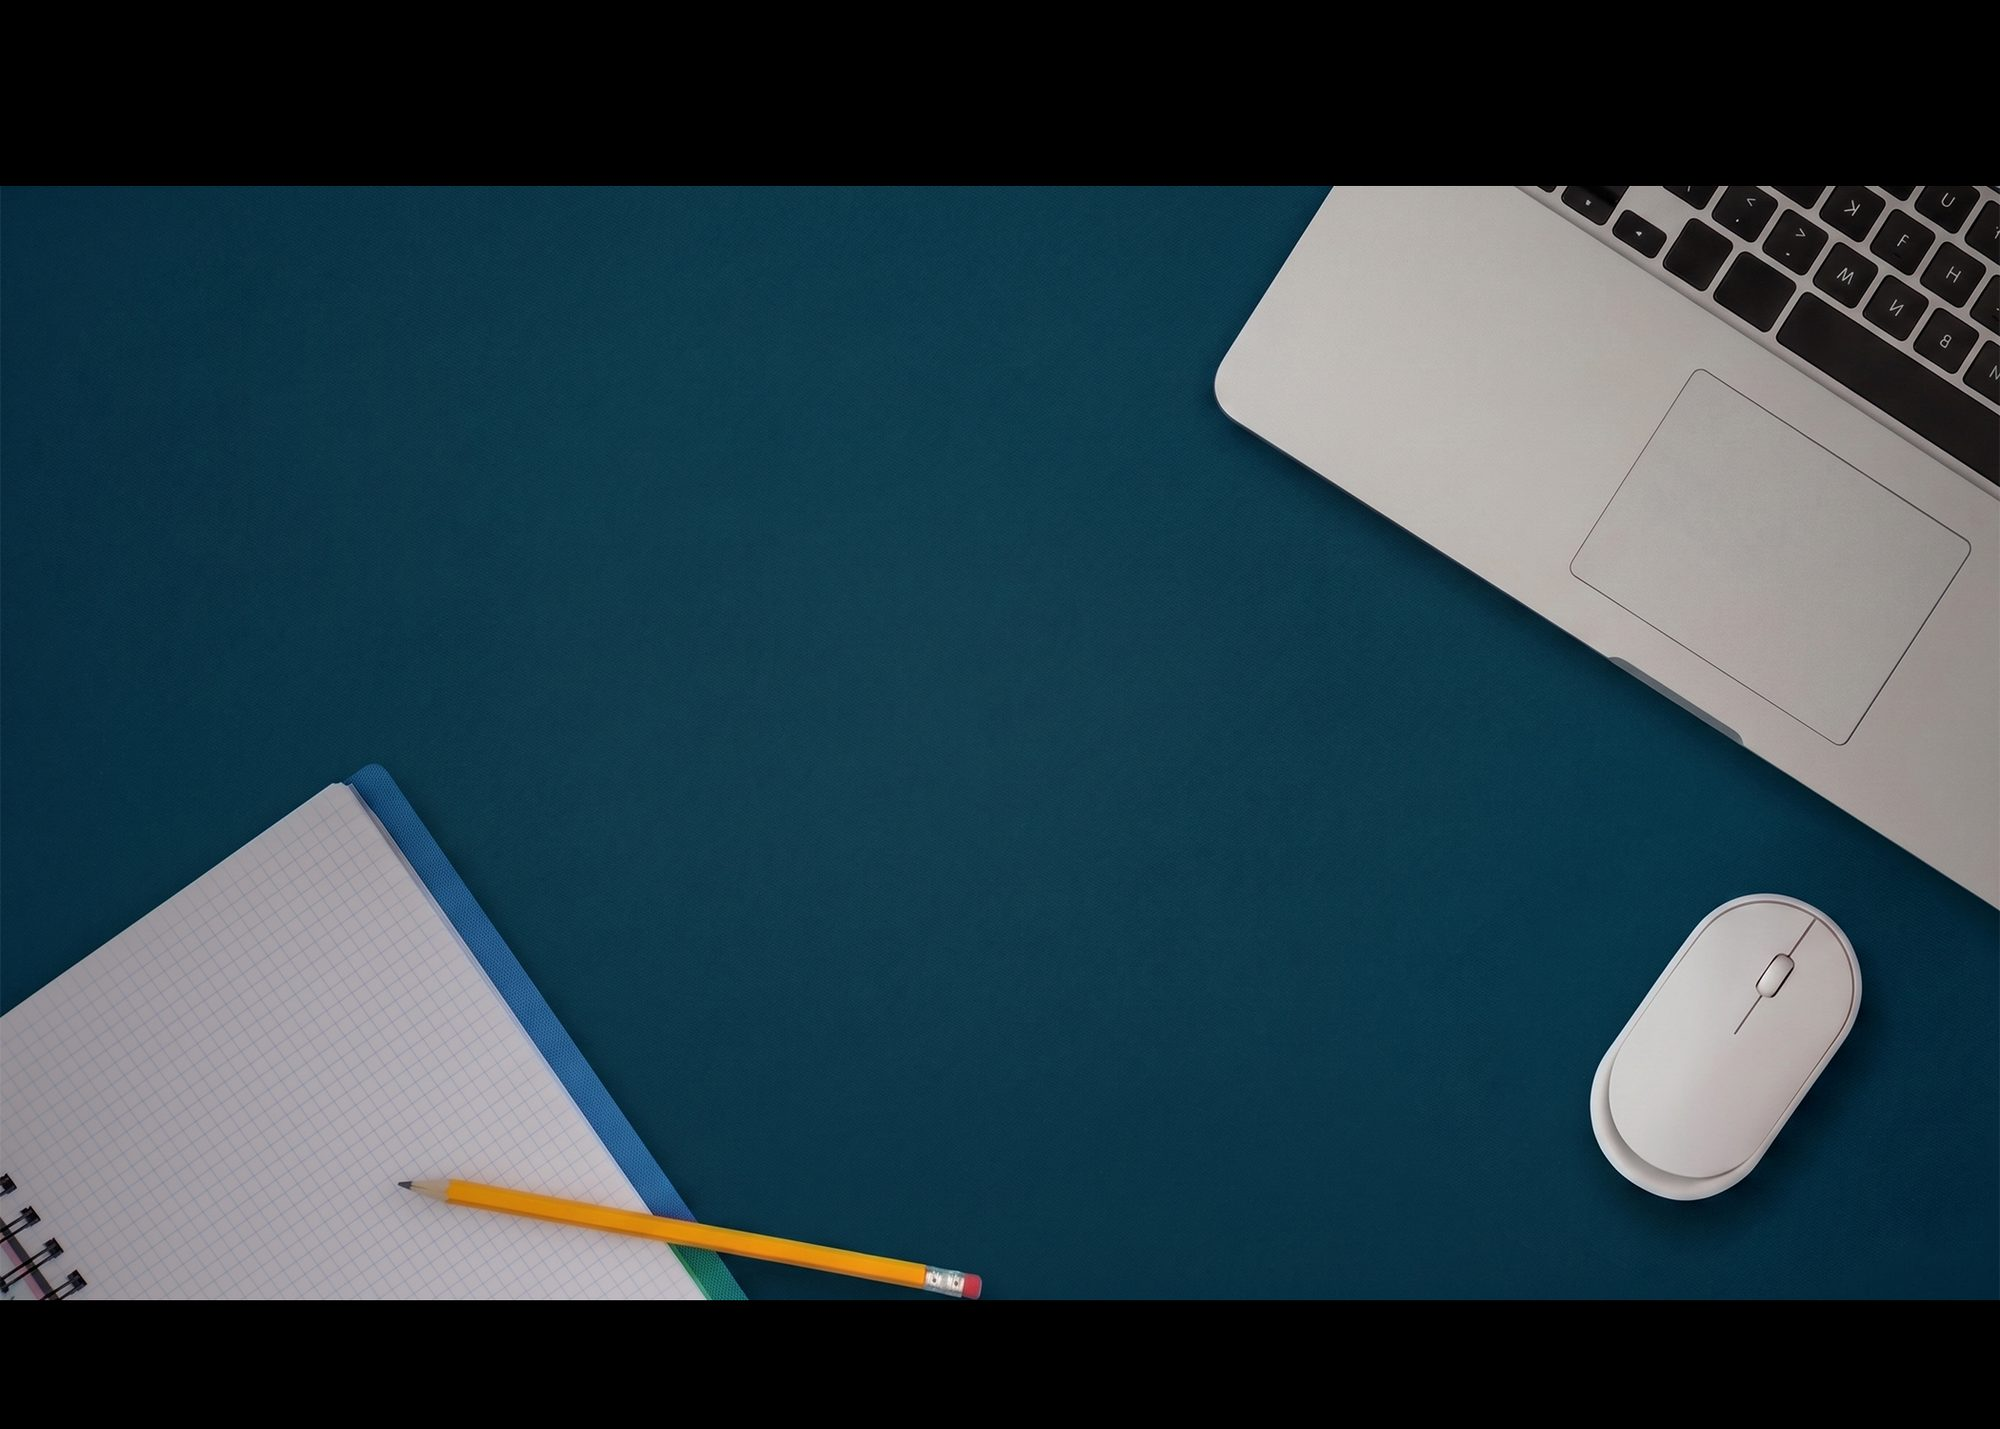
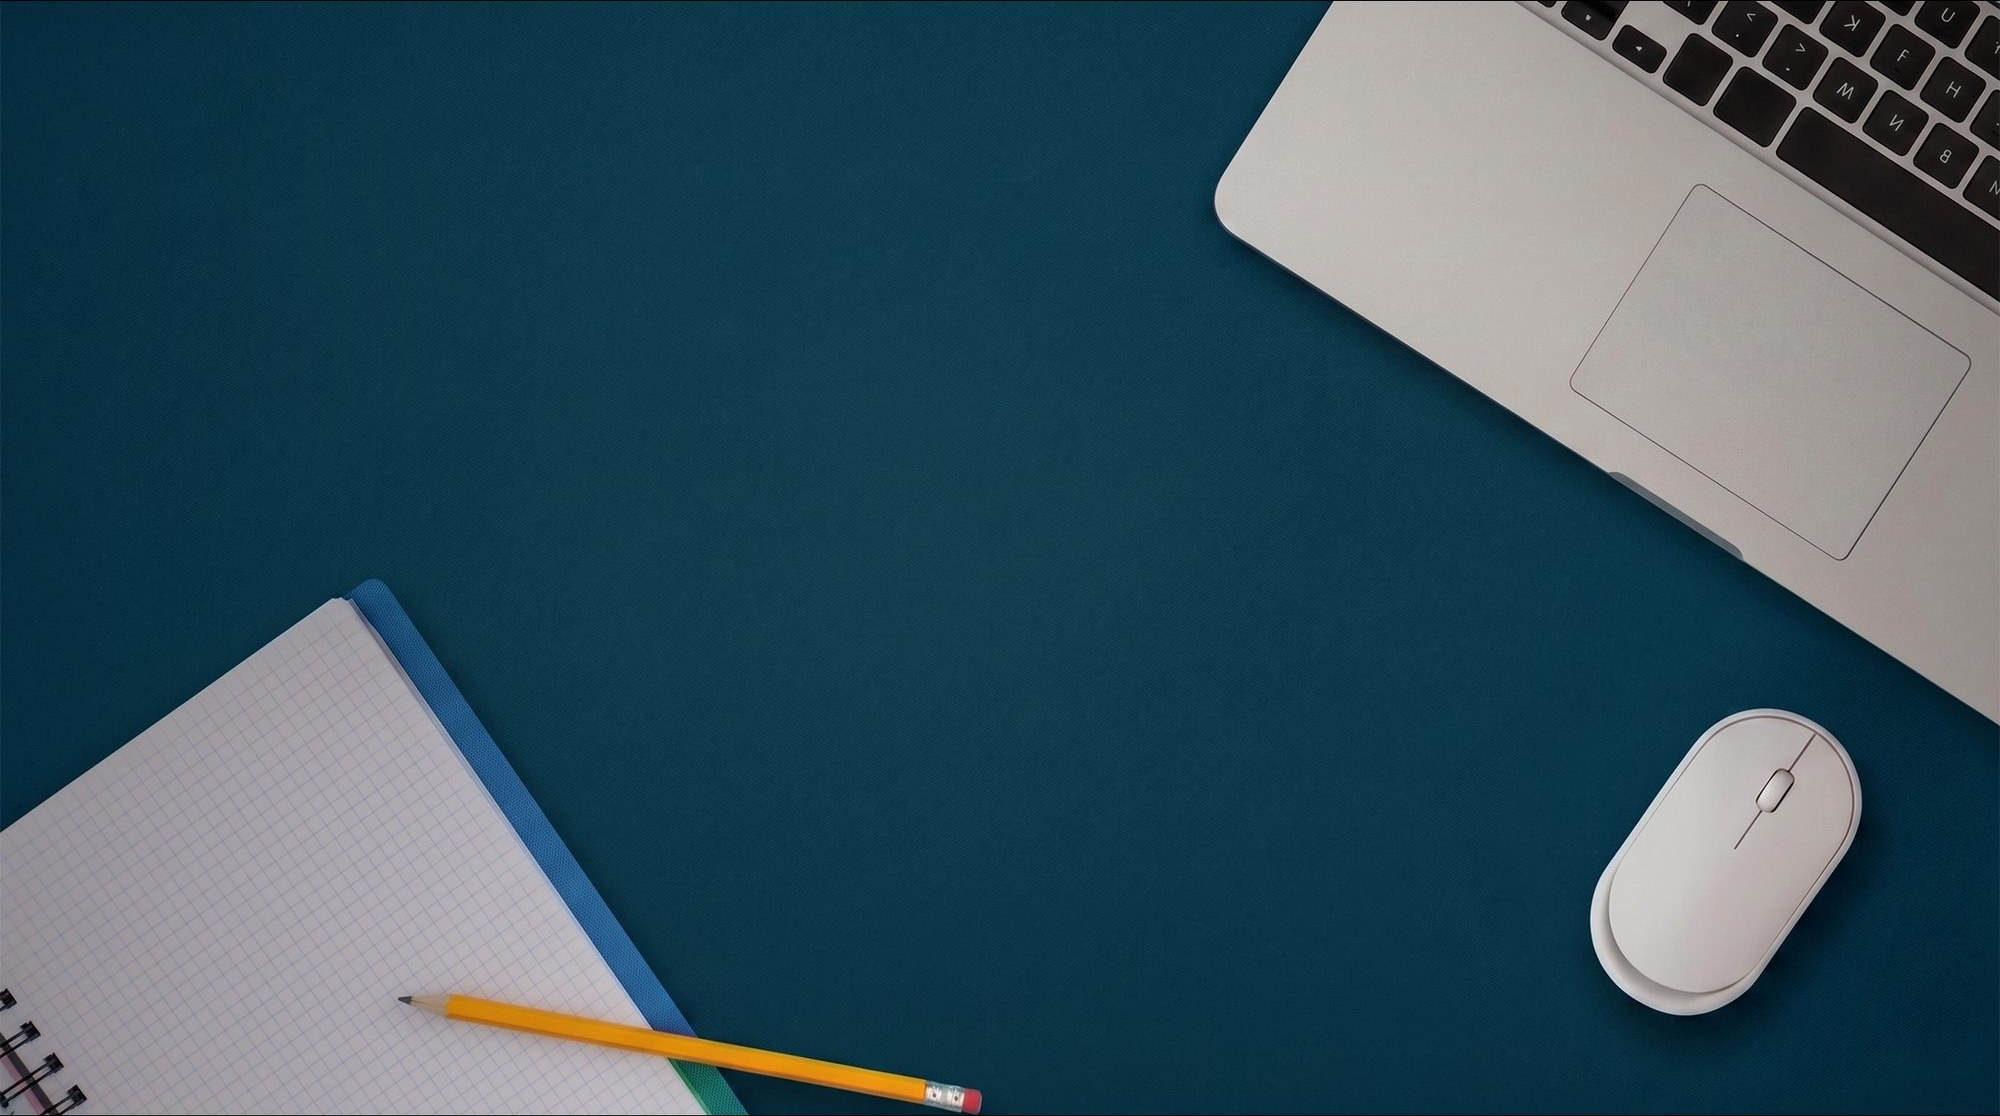
Crop careers hero black bars; tighten Values/FAQ spacing on About

diff --git a/components/sections/faq-split.tsx b/components/sections/faq-split.tsx
@@ -19,7 +19,7 @@ export function FaqSplit() {
 
   return (
     <section className="bg-brand-navy">
-      <div className="container-section py-20 md:py-28">
+      <div className="container-section pb-20 pt-6 md:pb-28 md:pt-10">
         <div className="grid gap-12 lg:grid-cols-2 lg:items-start lg:gap-16">
           {/* Left — eyebrow, two-line heading, short intro */}
           <Reveal>

diff --git a/components/sections/values.tsx b/components/sections/values.tsx
@@ -13,7 +13,7 @@ export function Values() {
 
   return (
     <section className="bg-brand-navy">
-      <div className="container-section py-20 md:py-28">
+      <div className="container-section pb-10 pt-20 md:pb-12 md:pt-28">
         <Reveal>
           <DisplayTitle tone="dark" title={c.eyebrow} subtitle={c.title} />
         </Reveal>
